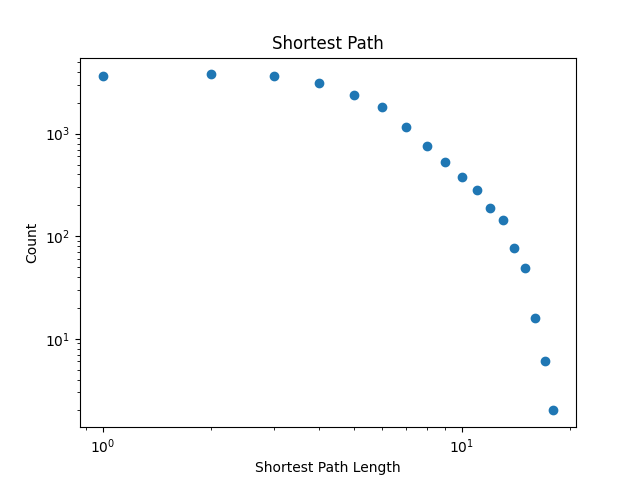
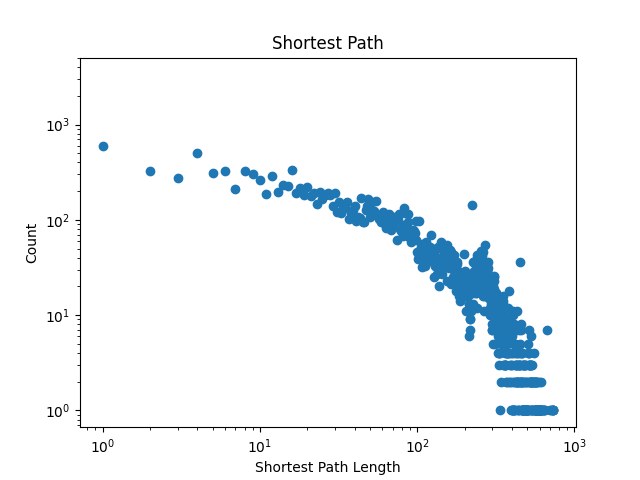
get shortest path analysis properly

diff --git a/network_analysis.py b/network_analysis.py
@@ -92,7 +92,7 @@ def get_shortest_path_length(graph):
   # get lengths for each node in graph
   lengths = [] 
   for u in graph.nodes():
-    paths = nx.single_source_shortest_path_length(graph, u)
+    paths = nx.single_source_dijkstra_path_length(graph, u, weight='weight')
     for p in paths:
       lengths.append(paths[p])
   create_graph_analysis(get_x(lengths), get_y(lengths), "Shortest Path", "Shortest Path Length", "Count", "graphs/sp.png")
@@ -102,7 +102,7 @@ def get_shortest_path_length(graph):
     giant_component = graph.subgraph(max(nx.weakly_connected_components(graph), key=len))
     num_nodes = giant_component.number_of_nodes()
     num_edges = giant_component.number_of_edges()
-    avg_sp = nx.average_shortest_path_length(giant_component)
+    avg_sp = nx.average_shortest_path_length(giant_component, weight='weight', method='dijkstra')
   except Exception as e:
     avg_sp = e
     num_nodes = e
